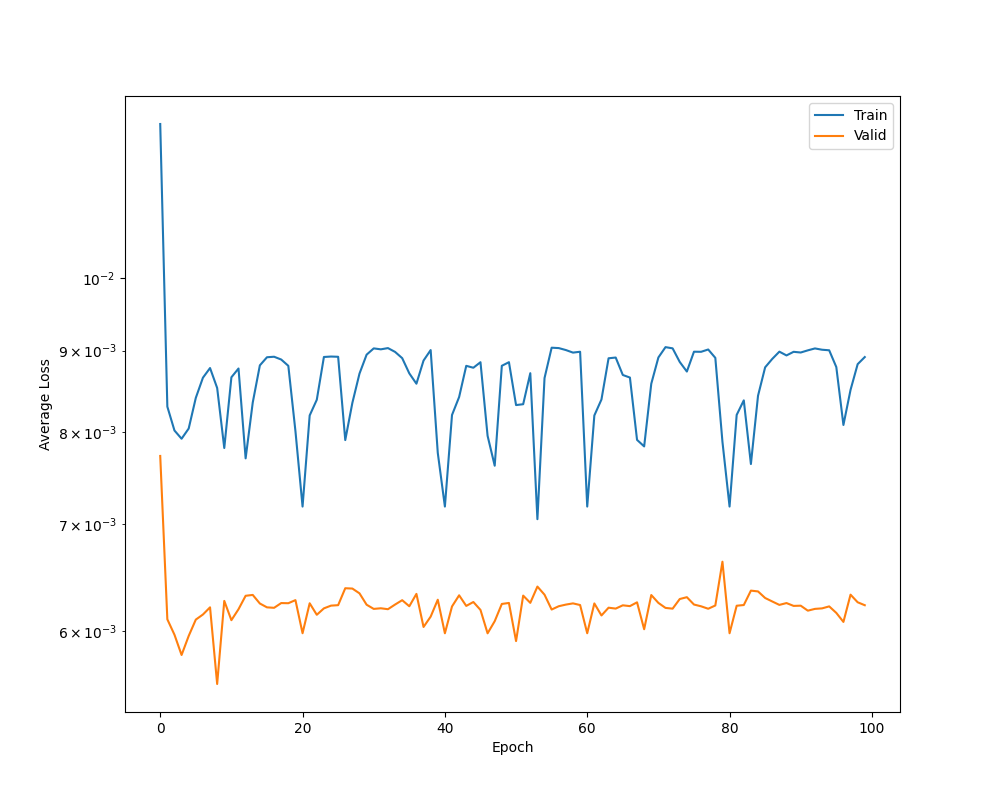
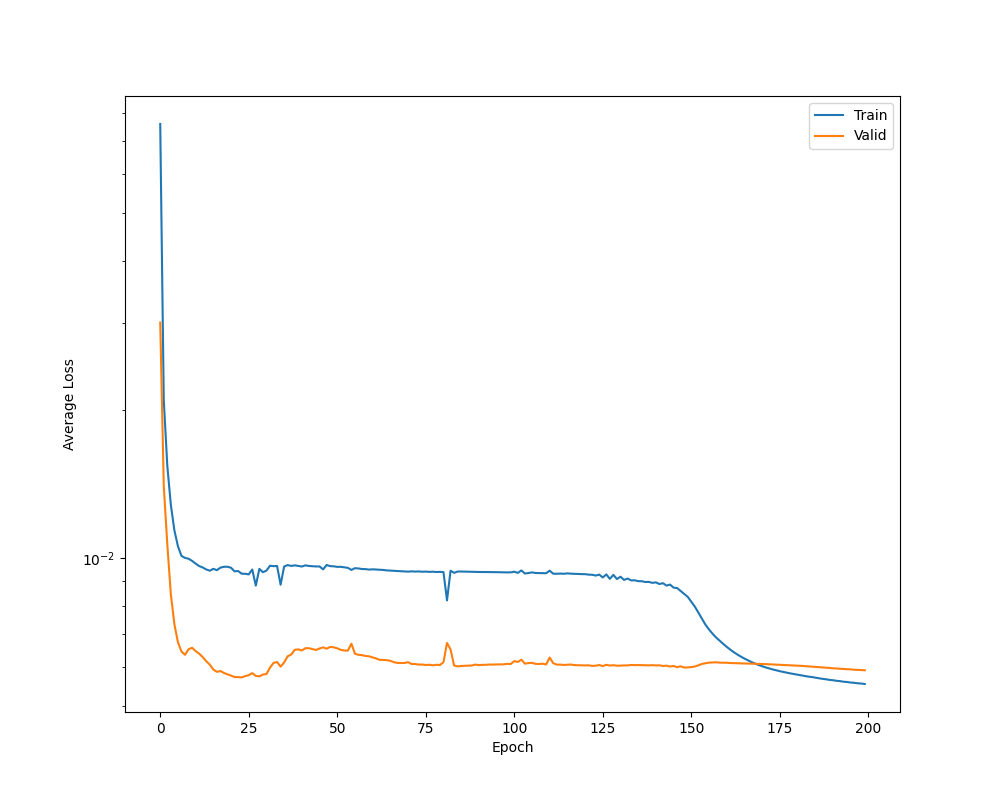
update: change some parameters and results

diff --git a/test_main.py b/test_main.py
@@ -27,11 +27,12 @@ device = torch.device("cuda") if torch.cuda.is_available() else torch.device("cp
 print(f"Selected device: {device}")
 
 # 2. define the parameters for training the model
-batch_size = 50
+batch_size = 100
 rows = 3
 columns = 4
 img_num = 0
-EPOCHS = 20
+EPOCHS = 100
+lr = 0.0001
 if_existing = False # a flag recording if there is an existing fullyCNN model
 
 # 3. provide filenames of PIV, PLIF data
@@ -164,7 +165,7 @@ if if_existing == True:
         np.append(validation_loss_records, np.load('./result/validation_loss_records.npy'))
 
     best_loss = validation_loss_records.min()
-    print("Load the existing loss records.")
+    print(f"Load the existing loss records, and current best loss is {best_loss}.")
 
 else:
     print("No existing loss records, start recording from the beginning.")
@@ -173,7 +174,7 @@ else:
 loss_fn = nn.MSELoss()
 torch.manual_seed(0)
 
-optimizer = torch.optim.Adam(fullyCNN.parameters(), lr=0.001)
+optimizer = torch.optim.Adam(fullyCNN.parameters(), lr=lr, weight_decay=1e-05)
 
 # PART 4: the looping process of training the model
 # NOTE: the test file takes PIV-x (dimension-0) as an example
